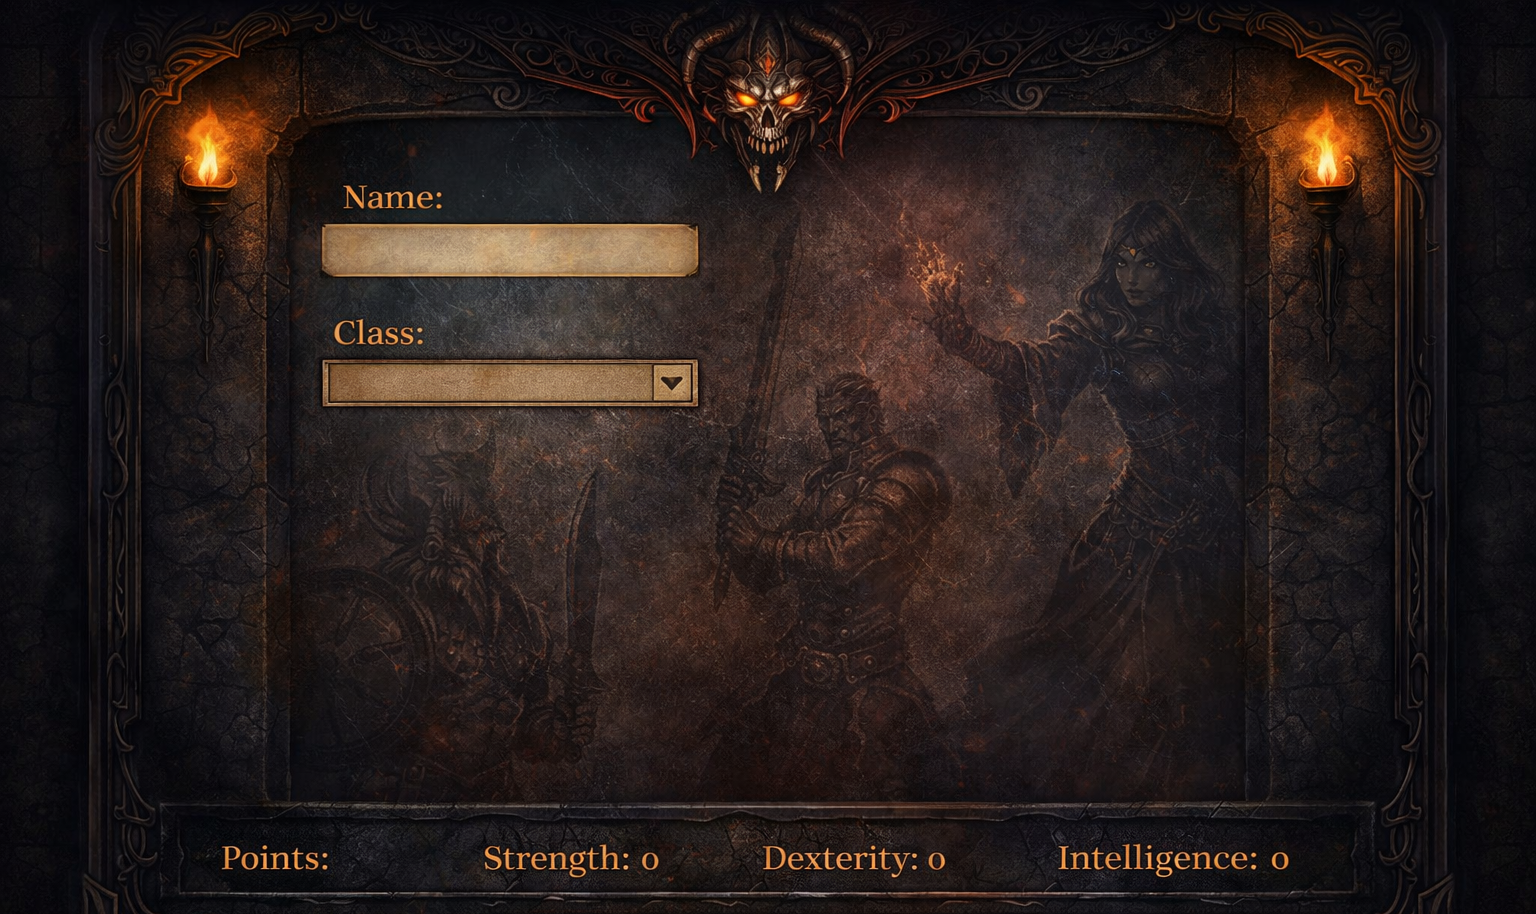
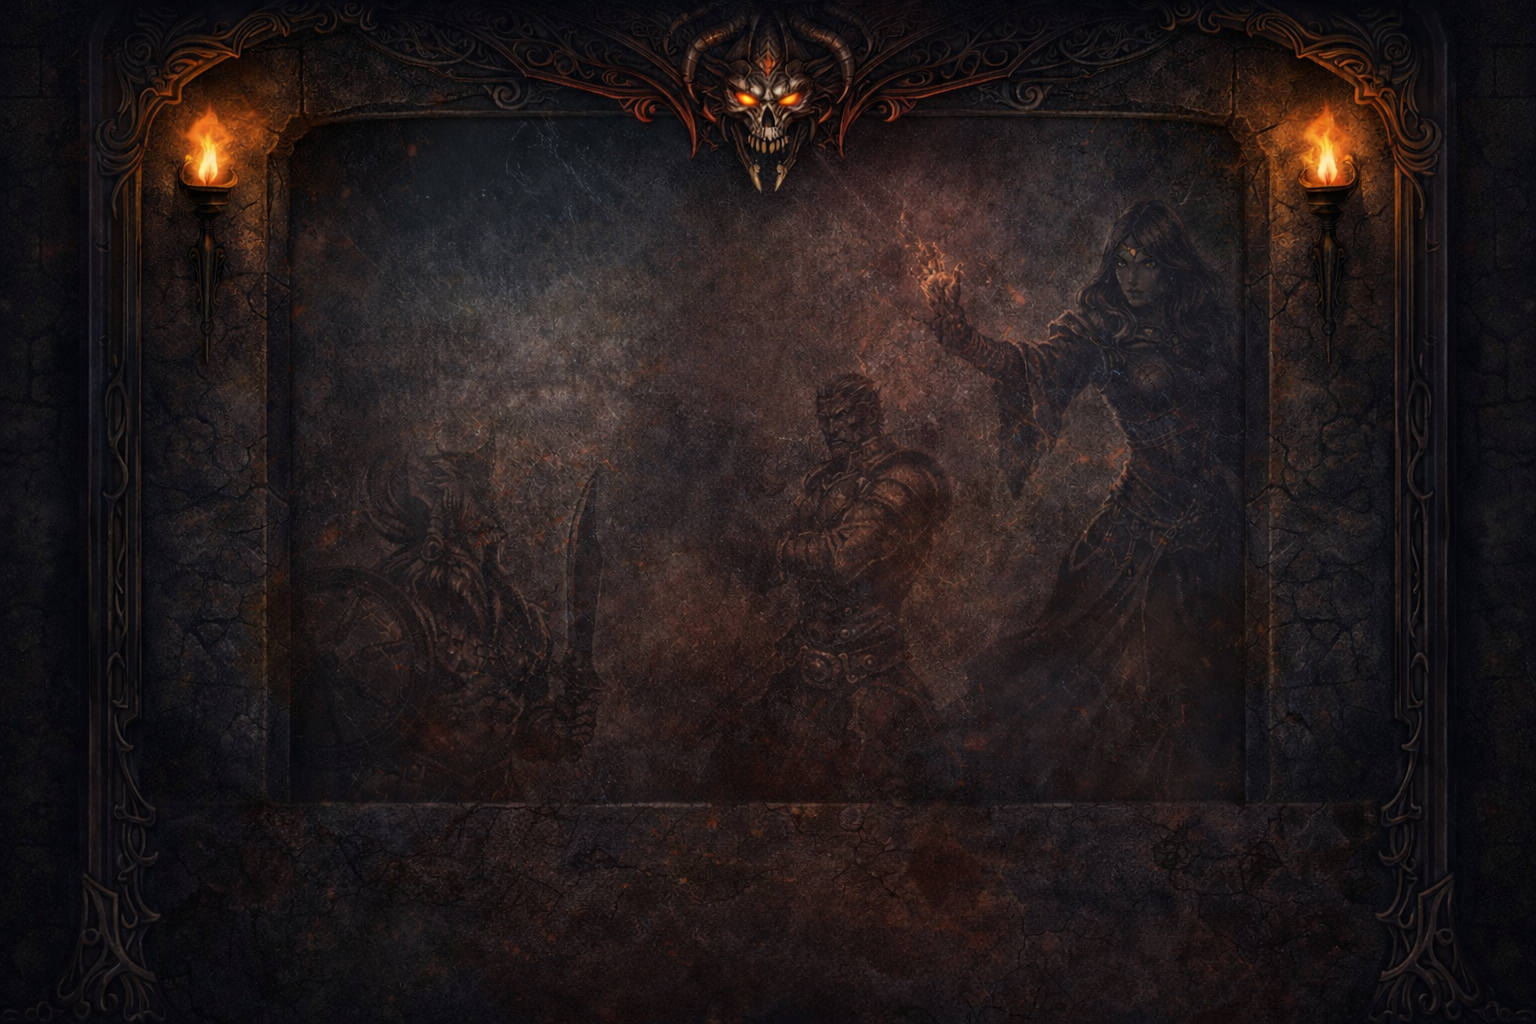
updated and changed some things

diff --git a/StatsGUI.Designer.cs b/StatsGUI.Designer.cs
@@ -52,14 +52,14 @@ namespace Characterstatgui
             // nameTextBox
             // 
             nameTextBox.Font = new Font("Segoe UI", 9F);
-            nameTextBox.Location = new Point(224, 142);
+            nameTextBox.Location = new Point(243, 142);
             nameTextBox.Name = "nameTextBox";
             nameTextBox.Size = new Size(180, 23);
             nameTextBox.TabIndex = 0;
             // 
             // addStrButton
             // 
-            addStrButton.Location = new Point(308, 494);
+            addStrButton.Location = new Point(243, 211);
             addStrButton.Name = "addStrButton";
             addStrButton.Size = new Size(75, 23);
             addStrButton.TabIndex = 2;
@@ -69,7 +69,7 @@ namespace Characterstatgui
             // 
             // resetButton
             // 
-            resetButton.Location = new Point(203, 279);
+            resetButton.Location = new Point(469, 447);
             resetButton.Name = "resetButton";
             resetButton.Size = new Size(75, 23);
             resetButton.TabIndex = 3;
@@ -80,7 +80,7 @@ namespace Characterstatgui
             // pointsLabel
             // 
             pointsLabel.AutoSize = true;
-            pointsLabel.Location = new Point(203, 523);
+            pointsLabel.Location = new Point(469, 150);
             pointsLabel.Name = "pointsLabel";
             pointsLabel.Size = new Size(40, 15);
             pointsLabel.TabIndex = 4;
@@ -89,7 +89,7 @@ namespace Characterstatgui
             // strLabel
             // 
             strLabel.AutoSize = true;
-            strLabel.Location = new Point(401, 523);
+            strLabel.Location = new Point(324, 219);
             strLabel.Name = "strLabel";
             strLabel.Size = new Size(10, 15);
             strLabel.TabIndex = 5;
@@ -98,7 +98,7 @@ namespace Characterstatgui
             // nameLabel
             // 
             nameLabel.AutoSize = true;
-            nameLabel.Location = new Point(284, 115);
+            nameLabel.Location = new Point(257, 124);
             nameLabel.Name = "nameLabel";
             nameLabel.Size = new Size(39, 15);
             nameLabel.TabIndex = 7;
@@ -107,7 +107,7 @@ namespace Characterstatgui
             // classLabel
             // 
             classLabel.AutoSize = true;
-            classLabel.Location = new Point(273, 196);
+            classLabel.Location = new Point(606, 124);
             classLabel.Name = "classLabel";
             classLabel.Size = new Size(34, 15);
             classLabel.TabIndex = 8;
@@ -115,7 +115,7 @@ namespace Characterstatgui
             // 
             // addDexButton
             // 
-            addDexButton.Location = new Point(496, 494);
+            addDexButton.Location = new Point(243, 249);
             addDexButton.Name = "addDexButton";
             addDexButton.Size = new Size(75, 23);
             addDexButton.TabIndex = 9;
@@ -125,7 +125,7 @@ namespace Characterstatgui
             // 
             // addIntButton
             // 
-            addIntButton.Location = new Point(685, 494);
+            addIntButton.Location = new Point(243, 287);
             addIntButton.Name = "addIntButton";
             addIntButton.Size = new Size(75, 23);
             addIntButton.TabIndex = 10;
@@ -136,7 +136,7 @@ namespace Characterstatgui
             // dexLabel
             // 
             dexLabel.AutoSize = true;
-            dexLabel.Location = new Point(576, 523);
+            dexLabel.Location = new Point(324, 257);
             dexLabel.Name = "dexLabel";
             dexLabel.Size = new Size(10, 15);
             dexLabel.TabIndex = 11;
@@ -145,7 +145,7 @@ namespace Characterstatgui
             // intLabel
             // 
             intLabel.AutoSize = true;
-            intLabel.Location = new Point(784, 523);
+            intLabel.Location = new Point(324, 295);
             intLabel.Name = "intLabel";
             intLabel.Size = new Size(10, 15);
             intLabel.TabIndex = 12;
@@ -154,7 +154,7 @@ namespace Characterstatgui
             // infoLabel
             // 
             infoLabel.AutoSize = true;
-            infoLabel.Location = new Point(284, 279);
+            infoLabel.Location = new Point(496, 473);
             infoLabel.Name = "infoLabel";
             infoLabel.Size = new Size(12, 15);
             infoLabel.TabIndex = 13;
@@ -165,7 +165,7 @@ namespace Characterstatgui
             classComboBox.DropDownStyle = ComboBoxStyle.DropDownList;
             classComboBox.FormattingEnabled = true;
             classComboBox.Items.AddRange(new object[] { "barbarian", "sorceress" });
-            classComboBox.Location = new Point(243, 224);
+            classComboBox.Location = new Point(576, 142);
             classComboBox.Name = "classComboBox";
             classComboBox.Size = new Size(121, 23);
             classComboBox.TabIndex = 14;
